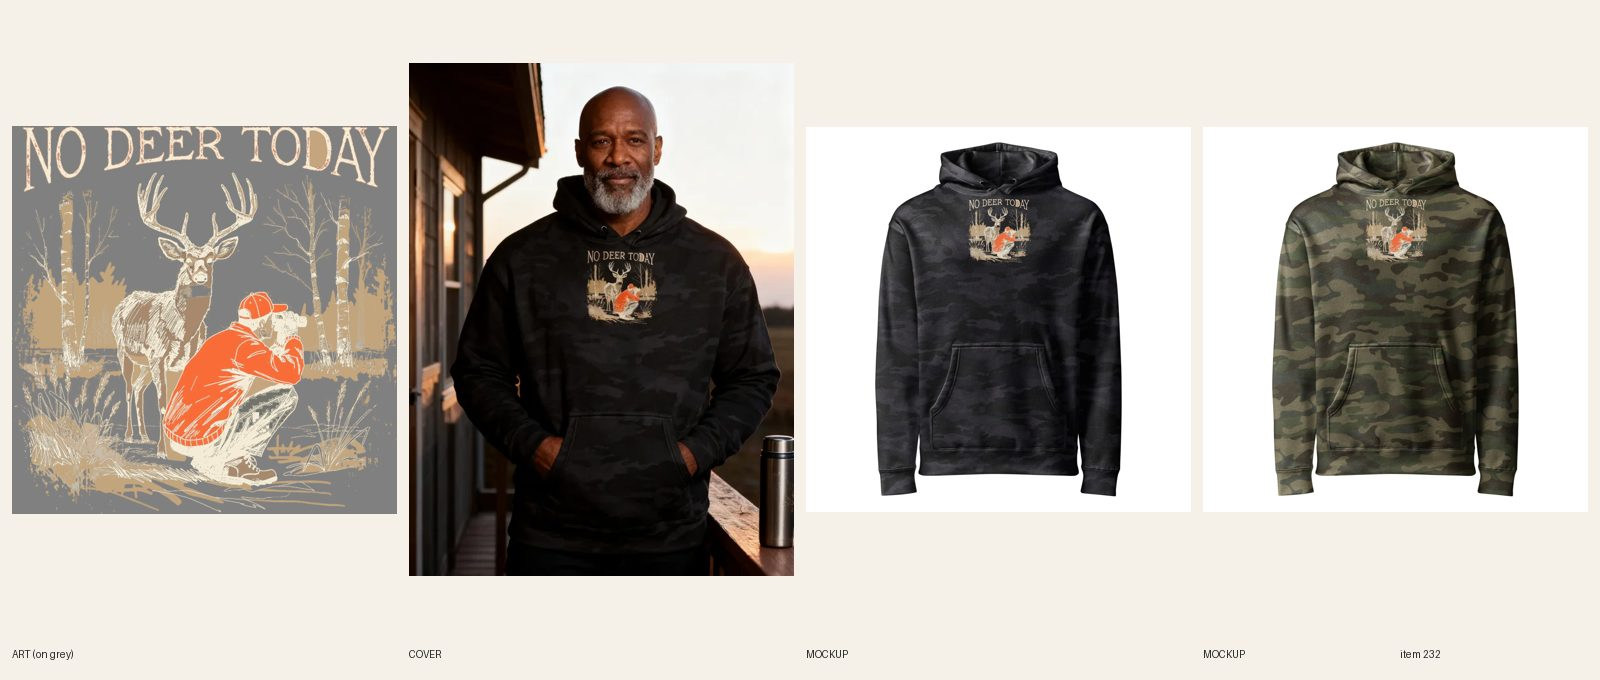
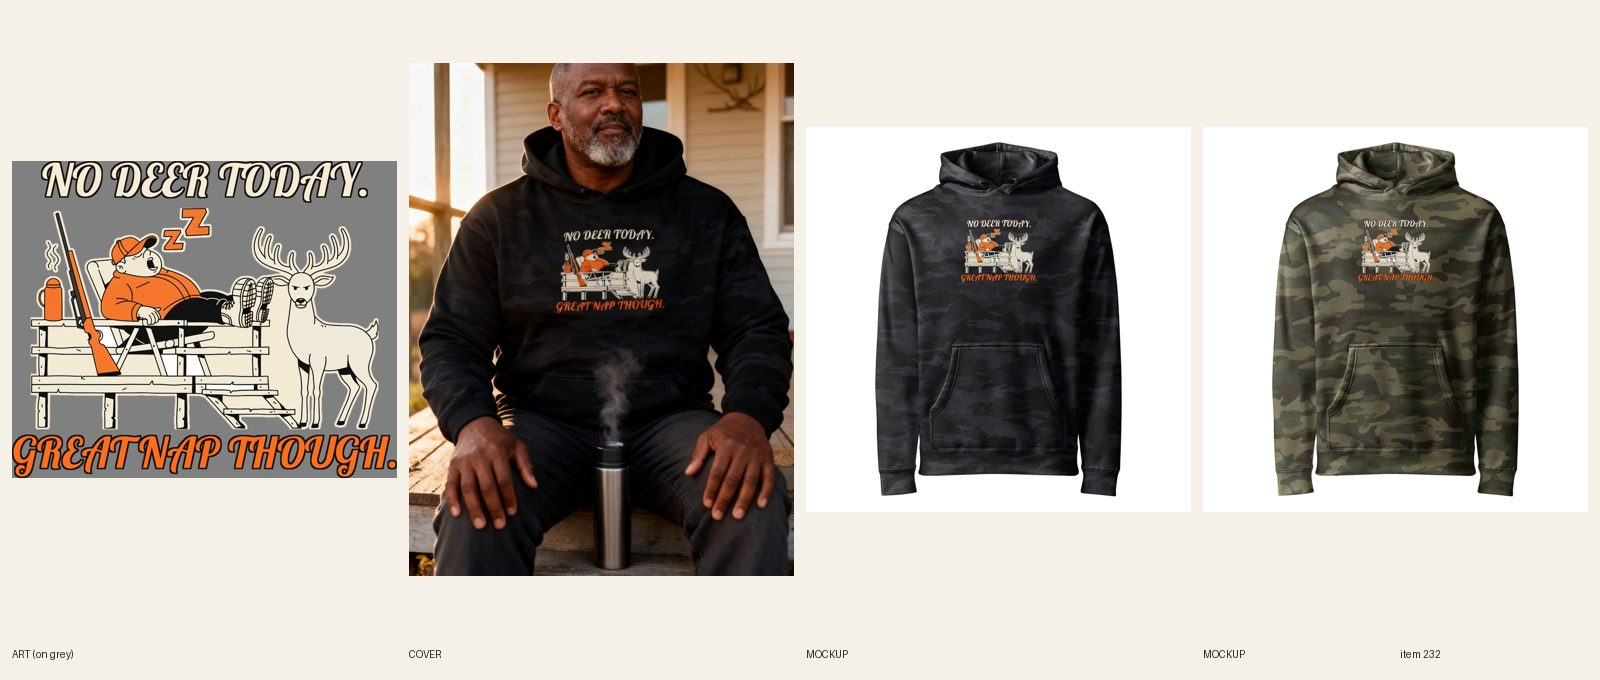
[B] review 232 camo redo 25 (cartoon hunter nap, A+)

Changed region(s): [[0.0, 0.0926, 0.5, 0.8647], [0.8438, 0.2779, 0.9062, 0.4324], [0.5938, 0.2779, 0.6562, 0.4324]]

diff --git a/docs/intake-log.md b/docs/intake-log.md
@@ -1,4 +1,5 @@
 RUNNING lane B since 2026-10-28 17:43 UTC
+2026-10-28 17:53 UTC — [B] REVIEW #232 Men's Hunting – No Deer Today Camo Hoodie (camo-redo 25 of 27, S3 on A+, FW1500 TOP400, 14/14 on 1097313671, headline 2539 / punch 2989 px = 118%, subject 90%, Lobster; 2 lifestyle photos). Product ACTIVE, director to confirm. fal ~$0.17
 2026-10-28 14:53 UTC — [H] Helper run: Telegram inbox empty (getUpdates returned 0 updates; nothing to consume, no pause, resume or TikTok links). Shopify: 0 orders (list-orders returned none), so no order alert and no Printful hold check. Audit 750 live products: 0 errors, 450 warnings left alone; committed docs/cohesion-audit.md and .json (npm ci first; node_modules symlink restored after). Category check: 0 products without a Shopify category (no mutation). Site check: mens-skull-dead-serious-zip-hoodie, womens-y2k-low-battery-high-standards-zip-hoodie and mens-fishing-catch-and-release-zip-hoodie all 200; homepage 200. Stuck work: no item in BUILDING status; no lane lock held. Daily summary not due (director digest already sent today at 14:45). Lock released.
 2026-10-28 14:45 UTC — [D] Director run: inbox nothing new from Sam. Reviewed 2 camo redo sheets, both LIVE in place (already ACTIVE, not new products): #900 Lone Wolf. Early Bedtime. (S5 sketchbook wolf, A+) and #902 Left On Read (S9 woodcut, B3); audit --handle PASS. Camo redo now 24 of 27. 6 new LIVE (Oct 28 Chicago day, cap reached): #851 Essentials Oatmeal embroidered zip (cream hoodie 6,600 / KD 24), #592 wrestling tee (4,400 / 32), #656 chess tee (1,900 / 30), #655 dad bod tee (1,600 / 32), #657 cornhole tee (880 / 30), #601 marathon tee (1,600 / 34); all ACTIVE + Online Store, Headless, Google & YouTube, audit --handle PASS. 23 held pullover hoodie approvals (#775-#814) sent back as REDO, placement only: all print at TOP 0, which Sam banned on every hoodie 2026-10-22 (builder 7m); re-place at FW 1500 TOP 400, no fal. Rulebook R11.15: held approvals get re-checked against newer rules before LIVE. Found about 119 live pullover hoodies still at TOP 0 (8 published after the ban); asked Sam whether to re-place them all in place. No new briefs: 56 READY, over the 6-12 target. Telegram: digest sent. Site: live-rebuild hook ran at 14:40 but the 6 new pages still 404 at 14:52, so I ran nightly-rebuild by hand; all 6 plus #902 returned 200 at 14:54. Lock released.
 2026-10-28 14:10 UTC — [B] Builder run end: 2 items, camo redo #23 #900 (sketchbook wolf, A+) and #24 #902 (woodcut mountain, B3); both ACTIVE, director to confirm. New products today: 0 of 6. fal ~$0.4. Lock released.

diff --git a/docs/pipeline/232-hunting-camo-hoodie-no-deer-today.md b/docs/pipeline/232-hunting-camo-hoodie-no-deer-today.md
@@ -1,4 +1,4 @@
-status: BUILDING [B] 2026-10-28T17:43Z
+status: REVIEW
 lane: B
 type: twin
 id: 232
@@ -23,3 +23,4 @@ handle: mens-hunting-no-deer-today-camo-hoodie
 - 2026-10-16 22:17 UTC director: LIVE (ACTIVE + Online Store + Headless, audit --handle PASS). approved.
 - 2026-10-22 22:00 UTC Claude (Sam): REDO, camo redo #25 of 27, style S3. New art in its own style, no box, no condensed sans, placement per docs/backlog/camo-redo.md (never TOP 0). Redo in place.
 - 2026-10-22 22:40 UTC Claude (Sam): placement A/B test, this item is A+ (center 10 in, tag placement-a).
+- 2026-10-28 17:53 UTC [B]: camo-redo #25 (S3 cute cartoon on A+, tag placement-a), in place on product 15362306441520, product ACTIVE. New art: 1 landscape Recraft call kept (first tall try discarded, 2 calls total, cream/black/blaze orange, no words), thin cream halo, no box; NO DEER TODAY. cream above, GREAT NAP THOUGH. blaze orange below, Lobster (lane B last faces: Caveat Brush, Bevan, Cinzel, Bowlby, Playfair; not among them). Print 2989 x 2463, FW1500 TOP400 (TOP+h 1636 <= 2100), headline 2539 / punch 2989 px = 118%, subject 2700 of 2989 = 90%, punch cap 170 px at FW1500 (floor 90). 14/14 on file 1097313671 (verified from Printful sync), back logo 1080398177 on 14/14. Front mockups replaced in place (fileUpdate), copy, alts, SEO, placement-a tag, FAQ 5 x 40-60 words. Title unchanged (line kept, 7i n/a). Phone-size read of Black and Forest OK. Photos: registry 1175 and 1176 (1 call each, lettering correct), images 1-2, back last. Handle in retired-covers. Sheet docs/review/232.jpg. fal ~$0.17.

diff --git a/docs/model-registry.md b/docs/model-registry.md
@@ -967,3 +967,5 @@ Rows 11–43 were re-pointed on 2026-10-08 when the briefs were rewritten from d
 | 1172 | white man, early 40s, dark brown hair, short beard, glasses, medium build, no hat | USED 2026-10-28 — #900 Lone Wolf camo hoodie photo 1 (seedream, 1 call) |
 | 1173 | Hispanic man, mid 30s, black wavy hair, clean-shaven, lean build, no hat | USED 2026-10-28 — #900 Lone Wolf camo hoodie photo 2 (seedream, 1 call) |
 | 1174 | Asian American man, late 20s, short black hair, light stubble, athletic build, no hat | USED 2026-10-28 — #902 Mountains Left on Read camo hoodie photo 1 (seedream, 1 call) |
+| 1175 | Black man, early 50s, short grey-flecked beard, stocky build, no hat | USED 2026-10-28 — #232 No Deer Today camo hoodie photo 1 (seedream) |
+| 1176 | white man, early 30s, ginger beard, broad build, no hat | USED 2026-10-28 — #232 No Deer Today camo hoodie photo 2 (seedream) |
